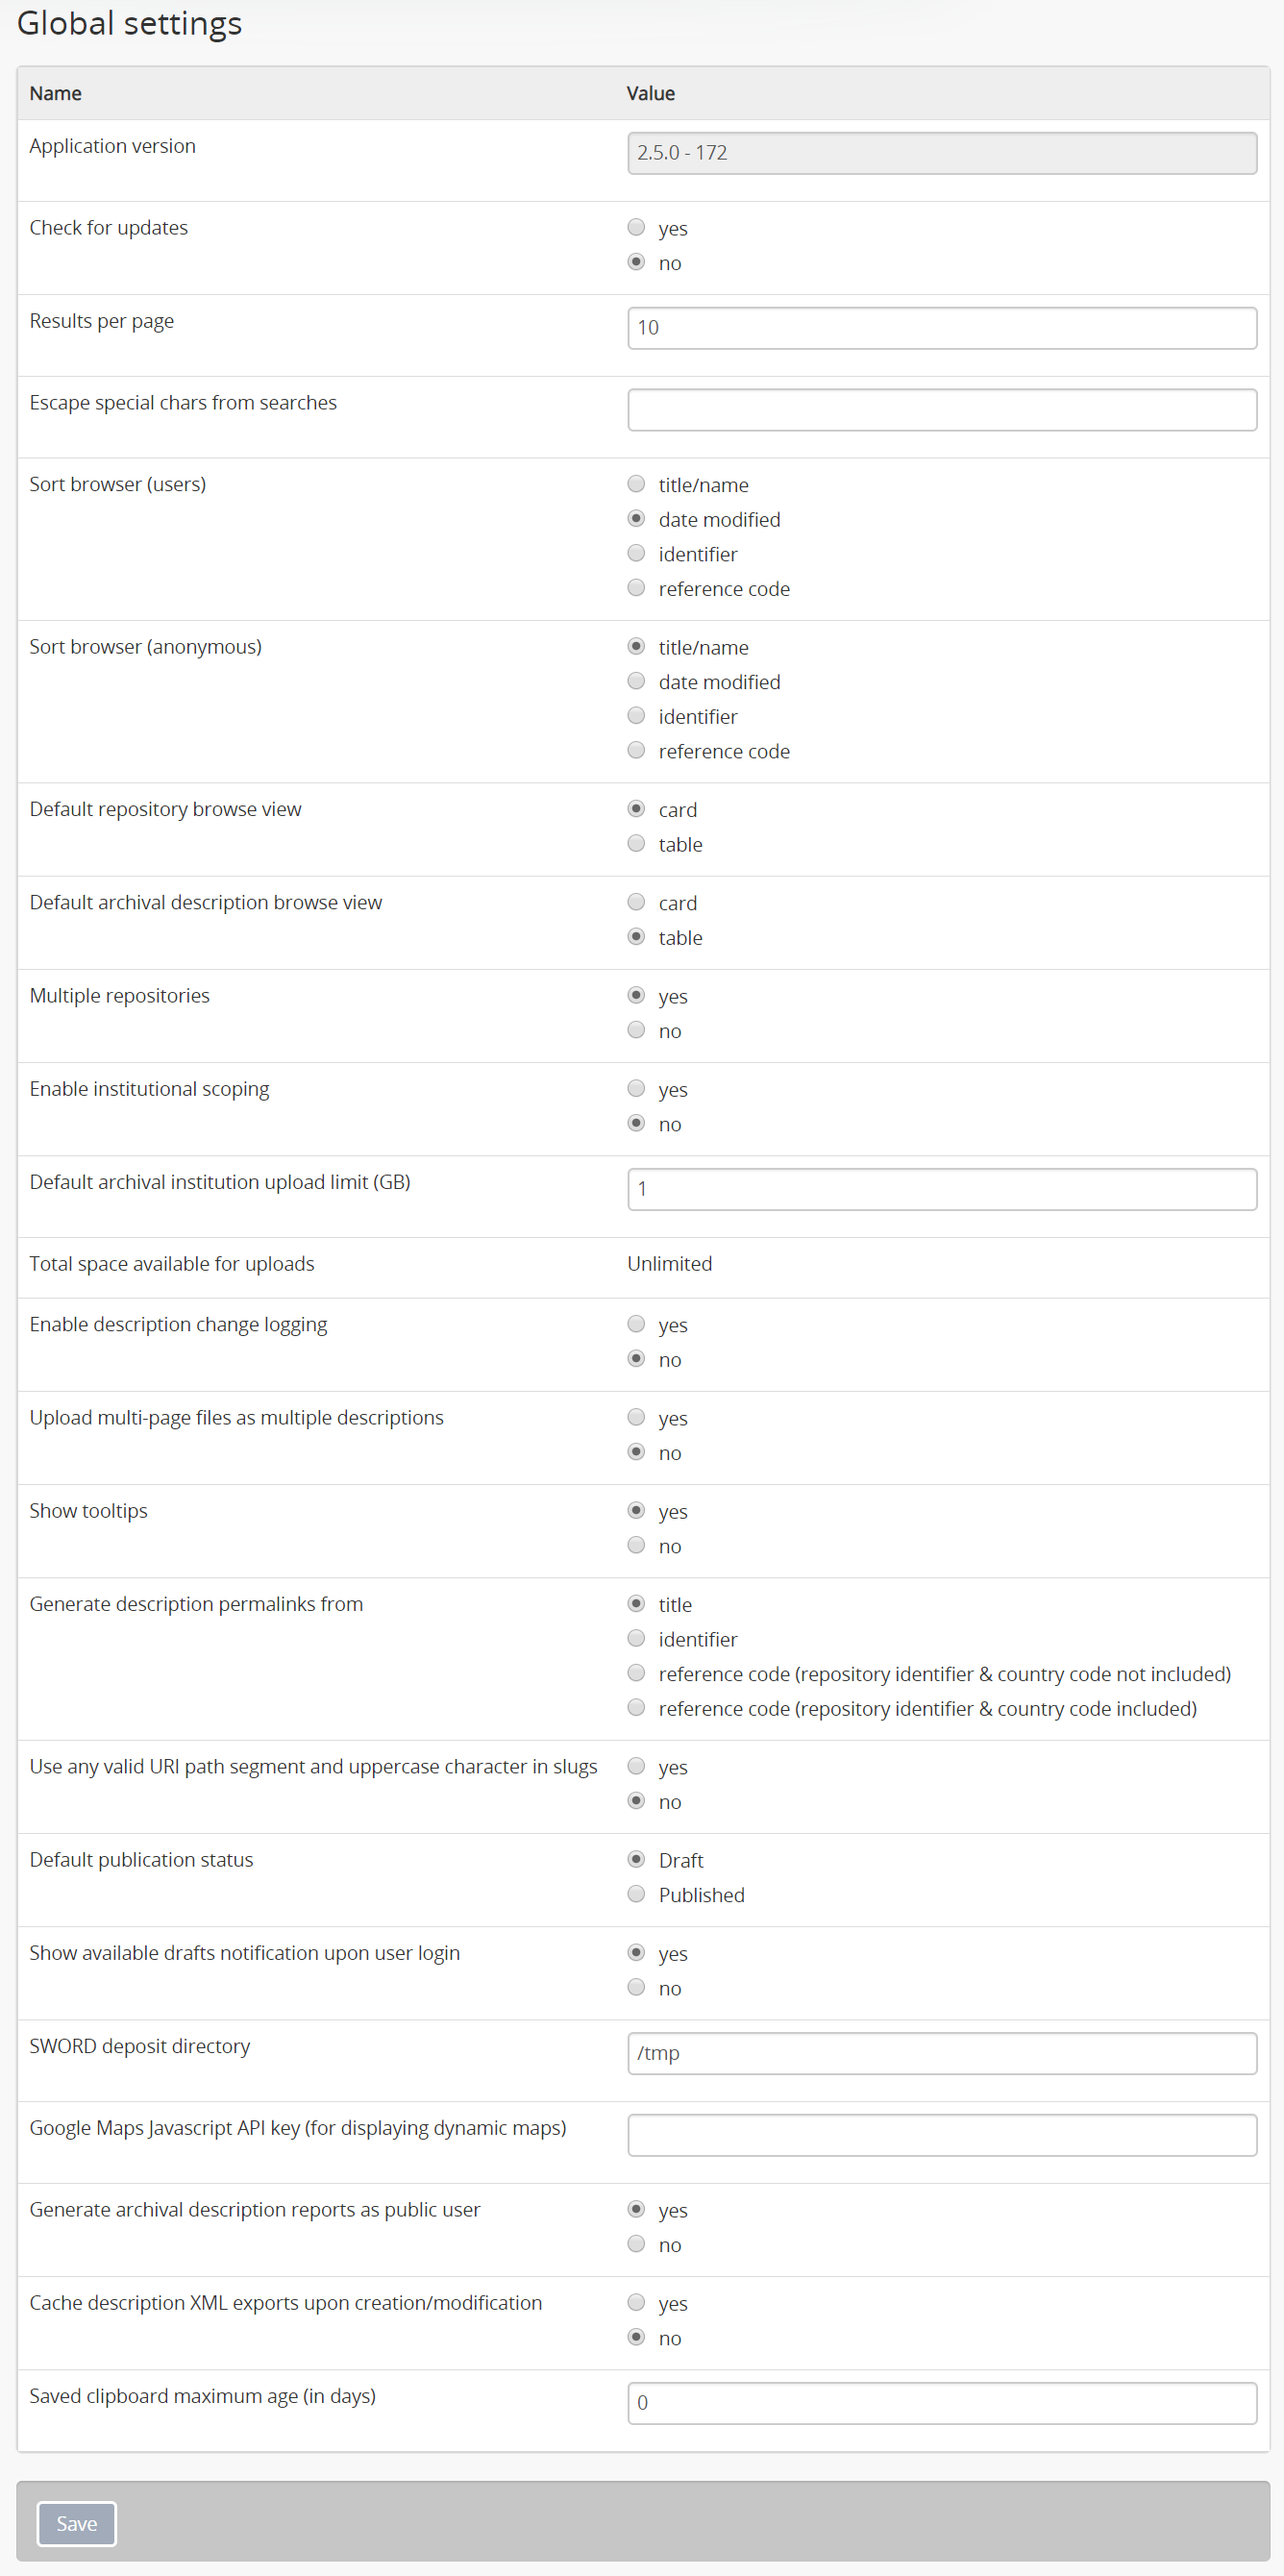
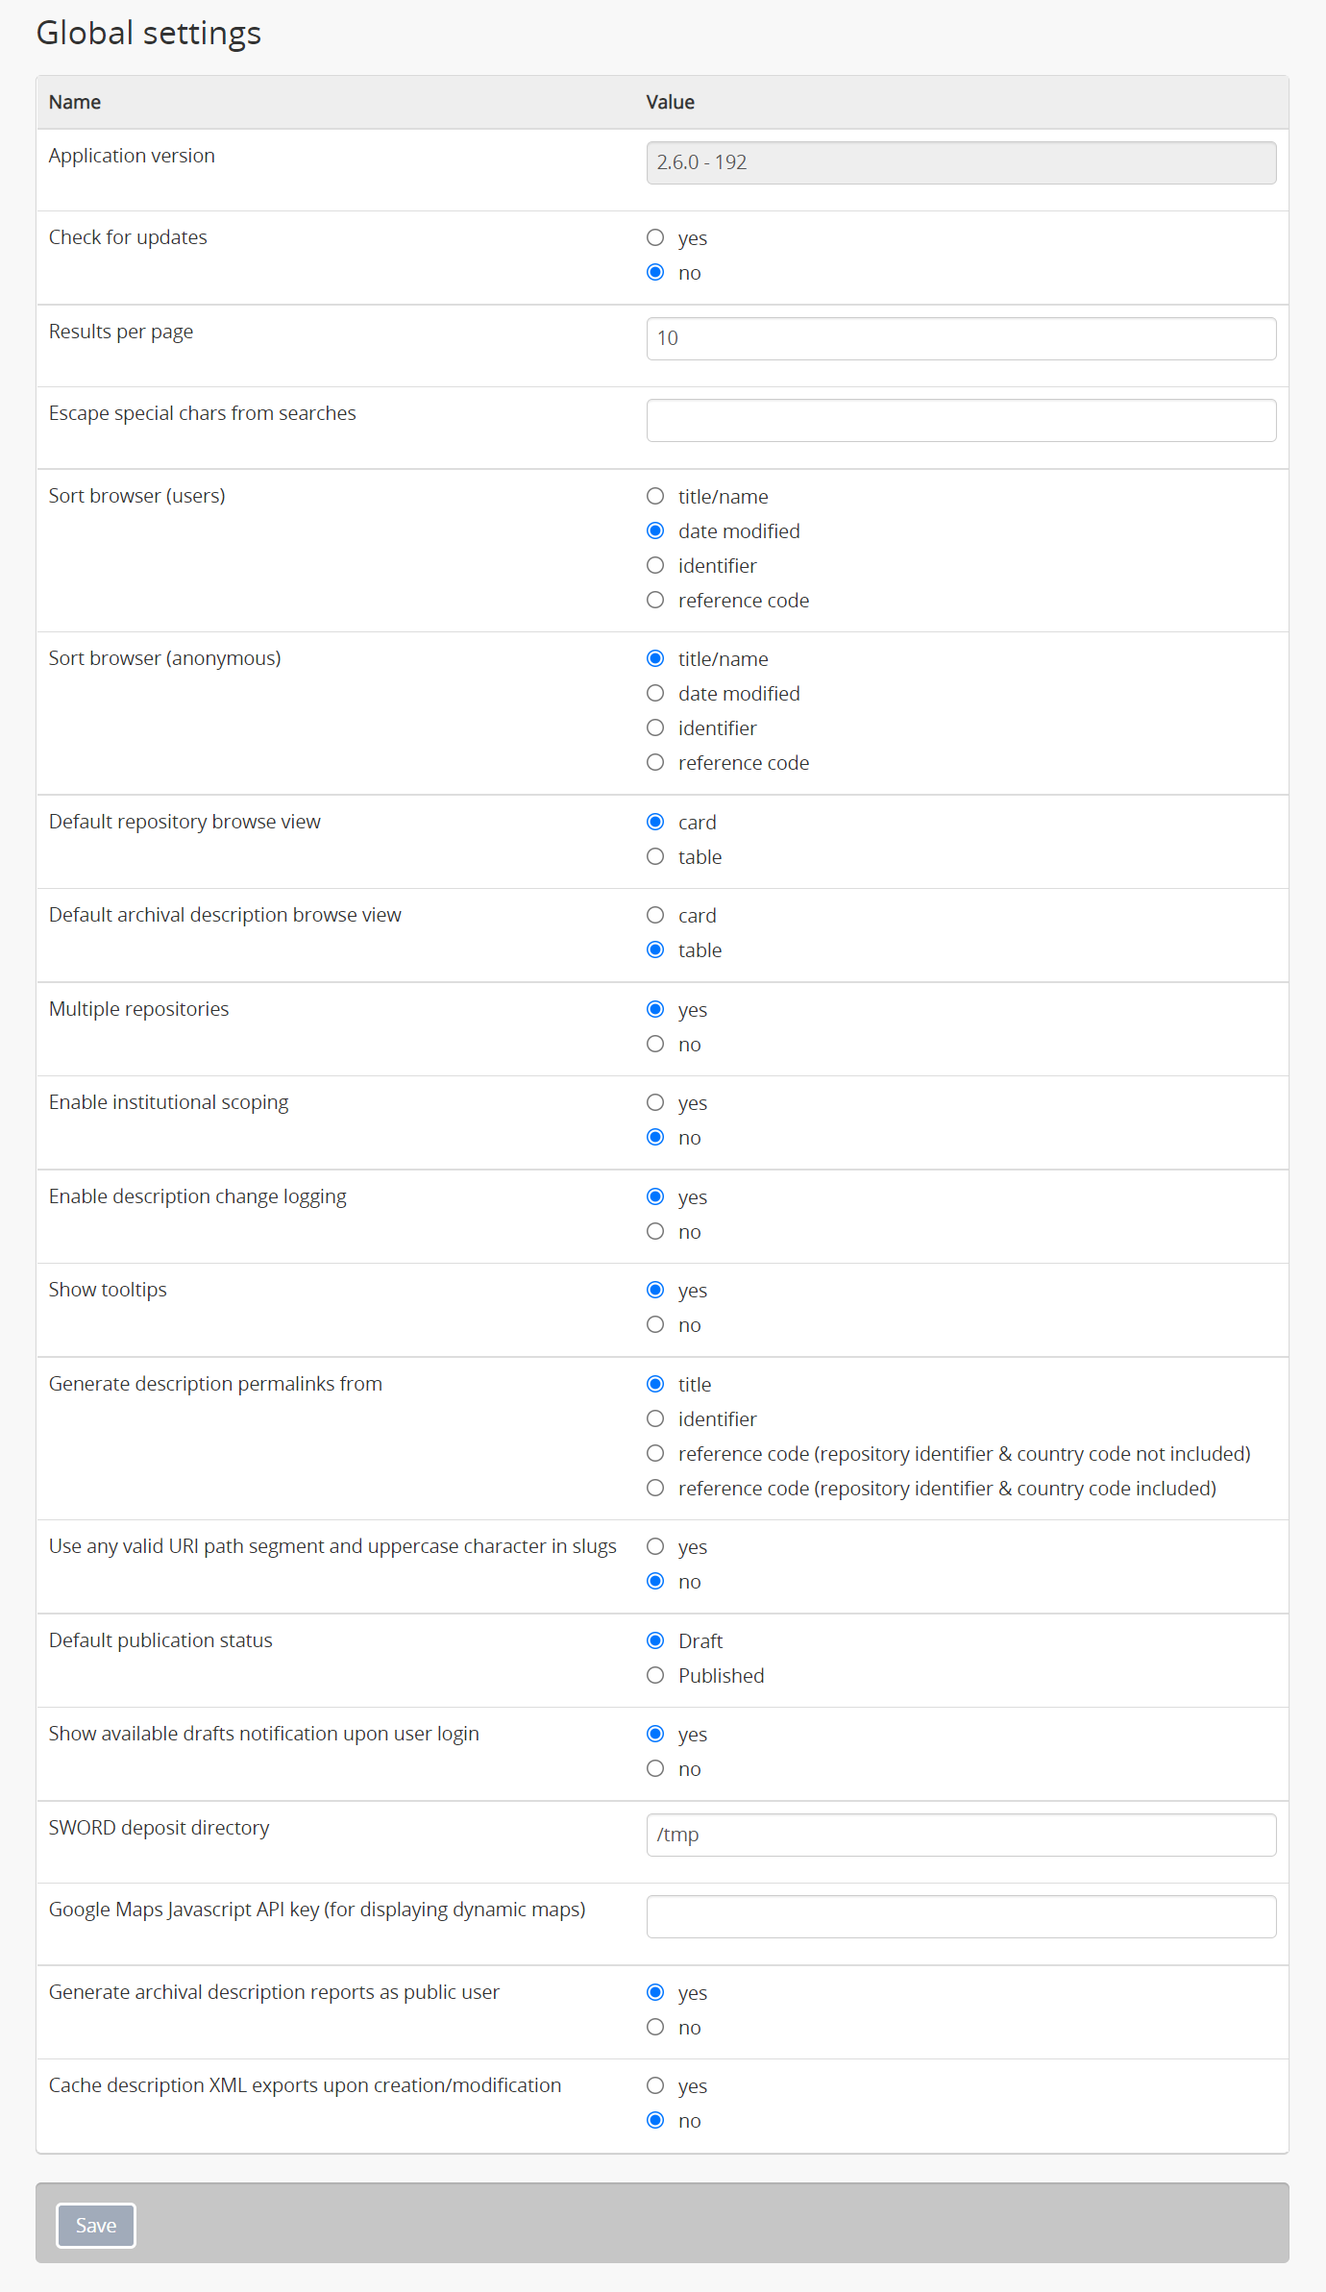
Document new upload settings, refs #13411

diff --git a/user-manual/administer/settings.rst b/user-manual/administer/settings.rst
@@ -29,6 +29,7 @@ Below, you will find information on the following :term:`information areas
 * :ref:`Site information <site-information>`
 * :ref:`Storage service <storage-service>`
 * :ref:`treeview-settings`
+* :ref:`upload-settings`
 * :ref:`User interface labels <user-interface-labels>`
 
 Each of the settings areas listed above is accessible via a list of links on 
@@ -87,16 +88,14 @@ This section will describe each setting in the "Global" :term:`information area`
 * :ref:`default-description-view`
 * :ref:`Multiple repositories <multiple-repositories>`
 * :ref:`enable-scoping`
-* :ref:`Default archival institution upload limit <default-institution-upload>`
-* :ref:`Total space available for uploads <total-upload-space>`
 * :ref:`enable-audit-logging`
-* :ref:`Upload multi-page files as multiple descriptions <upload-multi-files>`
 * :ref:`Show tooltips <tooltips>`
 * :ref:`Generate description permalinks from <description-permalinks>`
 * :ref:`permissive-slugs`
 * :ref:`Default publication status <default-publication-status>`
 * :ref:`drafts-notification`
 * :ref:`SWORD deposit directory <sword-directory>`
+* :ref:`maps-api-key`
 * :ref:`cache-xml-setting`
 * :ref:`clipboard-save-setting`
 
@@ -135,6 +134,10 @@ see:
 
 * :ref:`installation-upgrading`
 * :ref:`check-updates`
+
+.. SEEALSO::
+
+   * :ref:`cli-get-version` (command-line task)
 
 .. _check-updates:
 
@@ -513,6 +516,8 @@ because it will be too repetitive. Other changes include:
    * :ref:`archival-descriptions`
    * :ref:`archival-institutions`
    * :ref:`enable-scoping`
+   * :ref:`repository-upload-setting`
+   * :ref:`default-institution-upload`
 
 .. _enable-scoping:
 
@@ -596,41 +601,12 @@ on working with menus, see: :ref:`manage-menus`.
 
    * :ref:`archival-institutions`
    * :ref:`browse-scoped-holdings`
+   * :ref:`multiple-repositories` (setting)
+   * :ref:`repository-upload-setting`
+   * :ref:`default-institution-upload`
 
 
 :ref:`Back to top <settings>`
-
-.. _default-institution-upload:
-
-Default archival institution upload limit (GB)
-----------------------------------------------
-
-Enter the upload limit in GB allowed for uploading digital objects. Use "-1" as
-the value for unlimited upload space. This setting can be modified by an
-authenticated (i.e. logged-in) :term:`administrator`.
-
-A value of "0" (zero) disables file upload.
-
-For more information, see :ref:`upload-digital-object`.
-
-.. TIP::
-
-   While this setting is global, an upload limit can also be set by an
-   :term:`administrator` on a per-repository basis, from the
-   :term:`archival institution` page. For more information, see:
-   :ref:`upload-limit`.
-
-.. _total-upload-space:
-
-Total space available for uploads
----------------------------------
-
-This field will display the used space for
-:term:`digital objects <digital object>` as well as the total space available.
-The space available is determined by a configurable setting that a system
-administrator can modify in one of AtoM's configuration files - see:
-
-* :ref:`config-app-yml`
 
 .. _enable-audit-logging:
 
@@ -668,30 +644,6 @@ more information on using the Description updates module, see:
 
 * :ref:`search-updates`
 
-.. _upload-multi-files:
-
-Upload multi-page files as multiple descriptions
-------------------------------------------------
-
-Normally, a multi-page file such as a PDF is uploaded as a single
-:term:`digital object`, linked to a single target :term:`archival description`.
-However, it is possible to break up each page into its own digital object, and
-attach these to new :term:`child <child record>` descriptions
-
-Select "yes" if you would like each page of a multi-page file to be attached
-to a separate :term:`child-level <child record>` description. For example, a
-PDF file with 10 pages uploaded to a description would result in 10 individual
-descriptions, one for each page in the file.
-
-Select, "no" if you would like one multi-page file to be attached to a single
-description.
-
-.. seealso::
-
-   * :ref:`archival-descriptions`
-   * :ref:`upload-digital-object`
-   * :ref:`Digital object derivative settings <digital-object-derivatives>`
-
 .. _tooltips:
 
 Show tooltips
@@ -705,6 +657,10 @@ edit templates are based (e.g. RAD, ISAD, etc).
 :term:`Administrators <administrator>` can select "yes" to to have tooltips
 appear in :term:`edit pages <edit page>` as the user enters data. Selecting "no"
 will disable tooltips.
+
+.. SEEALSO::
+
+   * :ref:`data-entry`
 
 .. _description-permalinks:
 
@@ -2846,6 +2802,134 @@ affecting the number of :term:`children <child record>` loaded below the
 top-level :term:`archival description`, here the setting will determine how many
 top-level descriptions are loaded in the initial view. See 
 :ref:`browse-hierarchy-browser` for more information. 
+
+:ref:`Back to top <settings>`
+
+.. _upload-settings:
+
+Uploads
+=======
+
+.. image:: images/upload-settings.*
+   :align: center
+   :width: 90%
+   :alt: An image of the Uploads settings in AtoM
+
+These settings allow an :term:`administrator` to manage the upload of 
+:term:`digital objects <digital object>` to AtoM, including per-repository 
+upload limits when AtoM is used as a :term:`multi-repository system`. 
+
+**Jump to:**
+
+* :ref:`total-upload-space`
+* :ref:`repository-upload-setting`
+* :ref:`default-institution-upload`
+* :ref:`upload-multi-files`
+
+.. SEEALSO::
+
+   * :ref:`upload-digital-object`
+   * :ref:`digital-object-derivatives`
+   * :ref:`upload-limit`
+   * :ref:`archival-institutions`
+
+.. _total-upload-space:
+
+Total space available for uploads
+---------------------------------
+
+This field will display the used space for 
+:term:`digital objects <digital object>` as well as the total space available.
+The space available is determined by a configurable setting that a system
+administrator can modify in one of AtoM's configuration files - see:
+
+* :ref:`config-app-yml`
+
+.. _repository-upload-setting:
+
+Archival institution upload limits
+----------------------------------
+
+In addition to setting a global limit on the total space available for 
+:term:`digital object` uploads, an :term:`administrator` can also set 
+individual upload limits per :term:`archival institution`, which can be useful
+when AtoM is used as a :term:`multi-repository system`. There is also 
+a setting for configuring what the default upload limit is per repository - see
+below:
+
+* :ref:`default-institution-upload`
+
+This setting controls whether or not the configurable per-repository upload
+limit widget is enabled and displayed. When set to "Enabled", an administrator
+can further customize the upload limit per archival institution using the
+widget displayed to authenticated (i.e. logged in) users on the related
+repository :term:`view page`. However, disabling this widget can sometimes be
+useful for improving page load performance, particularly in large
+installations.
+
+For more information on using the per-repository upload limit widget, see:
+
+* :ref:`upload-limit`
+
+.. image:: images/upload-limit.*
+   :align: center
+   :width: 90%
+   :alt: An image of the per-repository upload limit widget in AtoM
+
+.. _default-institution-upload:
+
+Default archival institution upload limit (GB)
+----------------------------------------------
+
+In addition to setting a :ref:`global limit <total-upload-space>` on the total 
+space available for :term:`digital object` uploads, it's also possible to set
+a default limit per :term:`archival institution` when using AtoM as a 
+:term:`multi-repository system`. When set, this will be applied as the new 
+default upload limit per institution. 
+
+Enter the upload limit in GB allowed for uploading digital objects. Use "-1" as
+the value for unlimited upload space. This setting can be modified by an
+authenticated (i.e. logged-in) :term:`administrator`.
+
+A value of "0" (zero) disables file upload.
+
+For more information, see :ref:`upload-digital-object`.
+
+.. TIP::
+
+   While this setting sets a default global limit per repository, an indiviual 
+   upload limit can also be set by an :term:`administrator` on a per-repository 
+   basis, from the :term:`archival institution` page. For more information, see:
+   :ref:`upload-limit`.
+
+   Note that an administrator can also disable the display of this widget, 
+   which can sometimes be useful for improving page load performance. See above:
+
+   * :ref:`repository-upload-setting`
+
+.. _upload-multi-files:
+
+Upload multi-page files as multiple descriptions
+------------------------------------------------
+
+Normally, a multi-page file such as a PDF is uploaded as a single
+:term:`digital object`, linked to a single target :term:`archival description`.
+However, it is possible to break up each page into its own digital object, and
+attach these to new :term:`child <child record>` descriptions
+
+Select "yes" if you would like each page of a multi-page file to be attached
+to a separate :term:`child-level <child record>` description. For example, a
+PDF file with 10 pages uploaded to a description would result in 10 individual
+descriptions, one for each page in the file.
+
+Select, "no" if you would like one multi-page file to be attached to a single
+description.
+
+.. SEEALSO::
+
+   * :ref:`archival-descriptions`
+   * :ref:`upload-digital-object`
+   * :ref:`Digital object derivative settings <digital-object-derivatives>`
 
 :ref:`Back to top <settings>`
 

diff --git a/user-manual/add-edit-content/archival-institutions.rst b/user-manual/add-edit-content/archival-institutions.rst
@@ -1288,6 +1288,16 @@ left-hand side of the institution's page.
    roles see: :ref:`User roles <user-roles>`. For information on logging in,
    see: :ref:`Log in <log-in>`.
 
+   Note that an administrator can also disable the display of this widget, 
+   which can sometimes be useful for improving page load performance. See above:
+
+   * :ref:`repository-upload-setting`
+
+   Additionally, note that a system administrator can configure a global 
+   upload limit - see:
+
+   * :ref:`total-upload-space`
+
 **To set the digital object upload limit for an archival institution:**
 
 1. Navigate to the :term:`archival institution` you wish to edit. You can do
